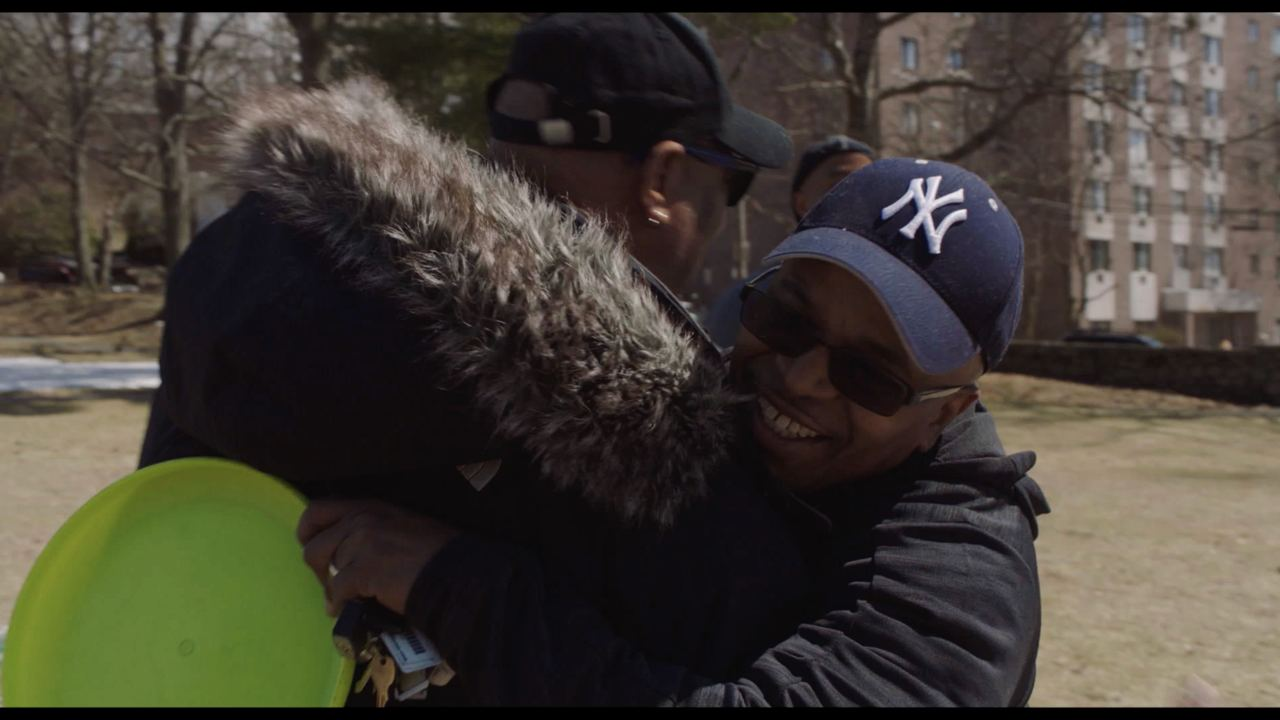
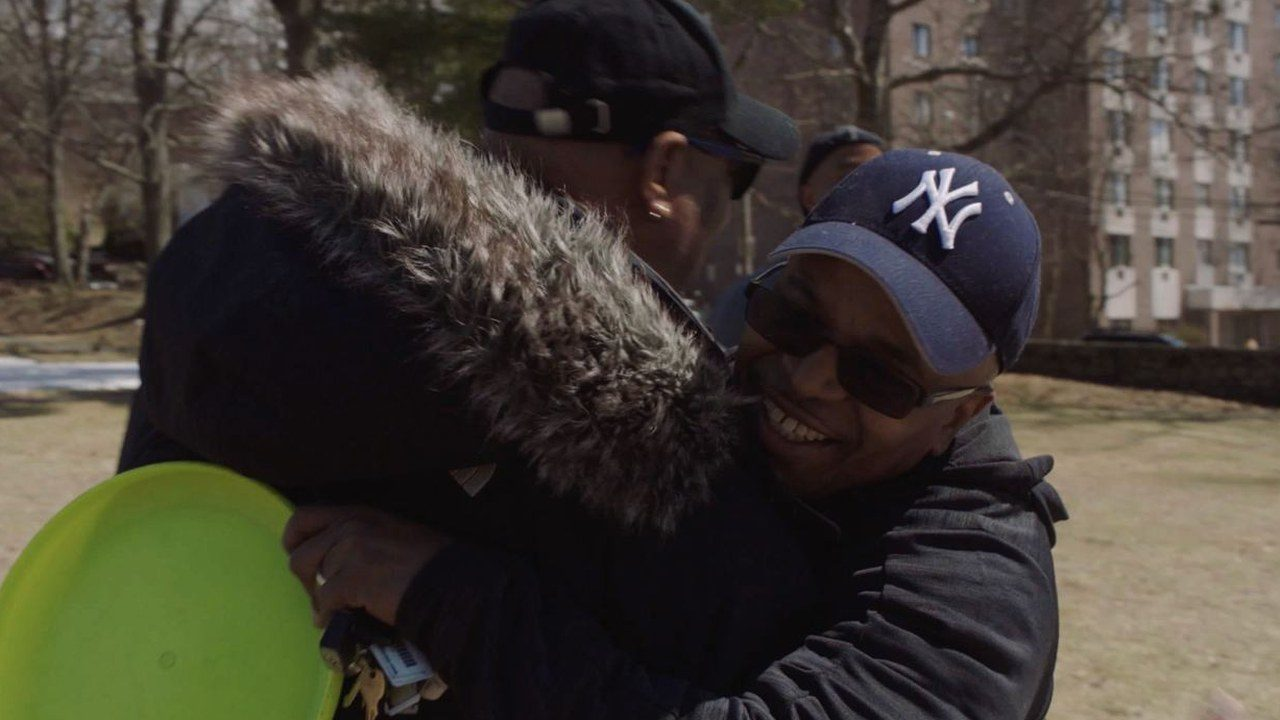
The Sky Is Red: crop the letterbox bars from the thumbnail, preview loop, and pop-up player
Claude-Session: https://claude.ai/code/session_01VntyYYHyPjDEkuFe24mHNy

diff --git a/film.html b/film.html
@@ -674,7 +674,7 @@ const FILMS=[
   {y:2022,t:"We Don't Just Matter In Death",img:"wdjmid",f:"Documentary",trt:"9:22",r:"Producer, Writer, Director, Editor"},
   {y:2020,t:"One Second a Day",og:1,f:"Experimental",g:"Experimental documentary series",img:"https://i.ytimg.com/vi/WSPStqxztRU/maxresdefault.jpg",u:"https://youtu.be/WSPStqxztRU",yt:[["2025","WSPStqxztRU"],["2024","-ZvWVRpXbJY"]]},
   {y:2020,t:"BIPOC Excellence in Ultimate",img:"bipoc",f:"Highlight Reel",trt:"4:25",r:"Producer, Editor",u:"https://vimeo.com/445467655",v:"445467655",vt:150},
-  {y:"—",t:"The Sky Is Red",img:"skyisred",f:"Documentary",hold:1,r:"Producer, Writer, Director",u:"https://vimeo.com/305896047",v:"305896047",vt:10},
+  {y:"—",t:"The Sky Is Red",img:"skyisred",f:"Documentary",hold:1,r:"Producer, Writer, Director",u:"https://vimeo.com/305896047",v:"305896047",vt:10,cr:.02},
   {y:2017,t:"Sadness and Other Self Portraits",img:"sadness",og:1,r:"Producer, Director, Editor",f:"Experimental",g:"Experimental documentary"},
   {y:2016,t:"Experiment",img:"experiment",f:"Experimental",trt:"3:30",r:"Producer, Writer, Director, Editor",u:"https://vimeo.com/246539799",v:"246539799",vt:15,l:[
     "Finalist, Sight of Sound International Film Competition (2016)",
@@ -715,7 +715,7 @@ function show(li){
   else{pimg.hidden=true;pvm.insertAdjacentHTML("beforeend",'<span class="none">'+esc(f.f)+'</span>');}
   Object.keys(frames).forEach(k=>{if(k!==f.v){frames[k].classList.remove("show");send(frames[k],"pause")}});
   if(moving&&f.v){let fr=frames[f.v];
-    if(!fr){fr=document.createElement("iframe");fr.src="https://player.vimeo.com/video/"+f.v+"?background=1&dnt=1#t="+(f.vt||0)+"s";fr.title="";fr.tabIndex=-1;fr.allow="autoplay";
+    if(!fr){fr=document.createElement("iframe");fr.src="https://player.vimeo.com/video/"+f.v+"?background=1&dnt=1#t="+(f.vt||0)+"s";fr.title="";fr.tabIndex=-1;fr.allow="autoplay";if(f.cr)fr.style.transform="translate(-50%,-50%) scale("+(1/(1-2*f.cr)).toFixed(3)+")";
       fr.addEventListener("load",()=>setTimeout(()=>{fr.dataset.ok=1;if(cur&&FILMS[+cur.dataset.i].v===f.v)fr.classList.add("show")},1600));pvm.appendChild(fr);frames[f.v]=fr;}
     else{send(fr,"play");if(fr.dataset.ok)fr.classList.add("show")}}
   pvm.classList.toggle("pop",!!(f.v||f.yt));
@@ -751,10 +751,10 @@ const ix=list.parentNode;let px=-1,py=-1;addEventListener("mousemove",e=>{px=e.c
 function atPointer(){if(py<0)return;const q=pv.getBoundingClientRect();if(px>=q.left&&px<=q.right&&py>=q.top&&py<=q.bottom)return;const b=ix.getBoundingClientRect();if(px<b.left||px>b.right||py<b.top||py>b.bottom)return;for(const li of list.children){const r=li.getBoundingClientRect();if(py>=r.top&&py<r.bottom){show(li);return}}}
 let sq=false;addEventListener("scroll",()=>{if(!sq){sq=true;requestAnimationFrame(()=>{sq=false;atPointer()})}},{passive:true});
 const ytPlay=id=>{if(window.lgPop)lgPop("https://www.youtube-nocookie.com/embed/"+id+"?autoplay=1&rel=0","One Second a Day");else open("https://youtu.be/"+id,"_blank")};
-pvm.addEventListener("click",()=>{if(!cur)return;const f=FILMS[+cur.dataset.i];if(f.yt)ytPlay(f.yt[0][1]);else if(f.v&&window.lgVimeo)lgVimeo(f.v)});
+pvm.addEventListener("click",()=>{if(!cur)return;const f=FILMS[+cur.dataset.i];if(f.yt)ytPlay(f.yt[0][1]);else if(f.v&&window.lgVimeo)lgVimeo(f.v,0,f.cr)});
 pcap.addEventListener("click",e=>{const b=e.target.closest("[data-yt]");if(b)ytPlay(b.dataset.yt)});
 // clicking a film's title (or its Watch tag) opens the video full screen here; cmd/ctrl-click still opens Vimeo
-list.addEventListener("click",e=>{const yb=e.target.closest("[data-yt]");if(yb){ytPlay(yb.dataset.yt);return}const li=e.target.closest(".ixr");if(!li)return;const f=FILMS[+li.dataset.i];if(f.yt&&!e.metaKey&&!e.ctrlKey){e.preventDefault();ytPlay(f.yt[0][1]);return}if(f.v&&window.lgVimeo&&!e.metaKey&&!e.ctrlKey){e.preventDefault();lgVimeo(f.v)}});
+list.addEventListener("click",e=>{const yb=e.target.closest("[data-yt]");if(yb){ytPlay(yb.dataset.yt);return}const li=e.target.closest(".ixr");if(!li)return;const f=FILMS[+li.dataset.i];if(f.yt&&!e.metaKey&&!e.ctrlKey){e.preventDefault();ytPlay(f.yt[0][1]);return}if(f.v&&window.lgVimeo&&!e.metaKey&&!e.ctrlKey){e.preventDefault();lgVimeo(f.v,0,f.cr)}});
 addEventListener("resize",place);
 document.querySelectorAll(".chip").forEach(b=>b.addEventListener("click",()=>{
   document.querySelectorAll(".chip").forEach(c=>c.setAttribute("aria-pressed",String(c===b)));
@@ -898,8 +898,11 @@ m.addEventListener('click',go);m.addEventListener('keydown',function(e){if(e.key
 <dialog class="reel-pop" id="reel-pop" aria-label="Video"><div class="rp-in"><button class="rp-x" type="button" aria-label="Close video">×</button><div class="rp-frame"></div></div></dialog>
 <script>
 (function(){var d=document.getElementById('reel-pop');if(!d||!d.showModal)return;var fr=d.querySelector('.rp-frame');
-function pop(src,title){fr.innerHTML='';var f=document.createElement('iframe');f.src=src;f.title=title||'Video';f.allow='autoplay; fullscreen; picture-in-picture';f.allowFullscreen=true;fr.appendChild(f);d.showModal();}
-window.lgPop=pop;window.lgVimeo=function(id,t){pop('https://player.vimeo.com/video/'+id+'?autoplay=1&title=0&byline=0&portrait=0&dnt=1'+(t?'#t='+t+'s':''));};
+// cr = share of the frame taken by each letterbox bar: the frame gets shorter and the player is cropped top and bottom so the bars don't show
+function pop(src,title,cr){fr.innerHTML='';var f=document.createElement('iframe');f.src=src;f.title=title||'Video';f.allow='autoplay; fullscreen; picture-in-picture';f.allowFullscreen=true;
+fr.style.aspectRatio=cr?16/(9*(1-2*cr)):'';fr.style.overflow=cr?'hidden':'';if(cr){f.style.position='relative';f.style.height=(100/(1-2*cr))+'%';f.style.top=(-100*cr/(1-2*cr))+'%';}
+fr.appendChild(f);d.showModal();}
+window.lgPop=pop;window.lgVimeo=function(id,t,cr){pop('https://player.vimeo.com/video/'+id+'?autoplay=1&title=0&byline=0&portrait=0&dnt=1'+(t?'#t='+t+'s':''),0,cr);};
 function open(e){e.preventDefault();lgVimeo(this.getAttribute('data-reel')||'158287395');}
 function close(){d.close();}
 d.addEventListener('close',function(){if(!d.open)fr.innerHTML='';});

diff --git a/src/site.html b/src/site.html
@@ -1160,7 +1160,7 @@ const FILMS=[
   {y:2022,t:"We Don't Just Matter In Death",img:"wdjmid",f:"Documentary",trt:"9:22",r:"Producer, Writer, Director, Editor"},
   {y:2020,t:"One Second a Day",og:1,f:"Experimental",g:"Experimental documentary series",img:"https://i.ytimg.com/vi/WSPStqxztRU/maxresdefault.jpg",u:"https://youtu.be/WSPStqxztRU",yt:[["2025","WSPStqxztRU"],["2024","-ZvWVRpXbJY"]]},
   {y:2020,t:"BIPOC Excellence in Ultimate",img:"bipoc",f:"Highlight Reel",trt:"4:25",r:"Producer, Editor",u:"https://vimeo.com/445467655",v:"445467655",vt:150},
-  {y:"—",t:"The Sky Is Red",img:"skyisred",f:"Documentary",hold:1,r:"Producer, Writer, Director",u:"https://vimeo.com/305896047",v:"305896047",vt:10},
+  {y:"—",t:"The Sky Is Red",img:"skyisred",f:"Documentary",hold:1,r:"Producer, Writer, Director",u:"https://vimeo.com/305896047",v:"305896047",vt:10,cr:.02},
   {y:2017,t:"Sadness and Other Self Portraits",img:"sadness",og:1,r:"Producer, Director, Editor",f:"Experimental",g:"Experimental documentary"},
   {y:2016,t:"Experiment",img:"experiment",f:"Experimental",trt:"3:30",r:"Producer, Writer, Director, Editor",u:"https://vimeo.com/246539799",v:"246539799",vt:15,l:[
     "Finalist, Sight of Sound International Film Competition (2016)",
@@ -1201,7 +1201,7 @@ function show(li){
   else{pimg.hidden=true;pvm.insertAdjacentHTML("beforeend",'<span class="none">'+esc(f.f)+'</span>');}
   Object.keys(frames).forEach(k=>{if(k!==f.v){frames[k].classList.remove("show");send(frames[k],"pause")}});
   if(moving&&f.v){let fr=frames[f.v];
-    if(!fr){fr=document.createElement("iframe");fr.src="https://player.vimeo.com/video/"+f.v+"?background=1&dnt=1#t="+(f.vt||0)+"s";fr.title="";fr.tabIndex=-1;fr.allow="autoplay";
+    if(!fr){fr=document.createElement("iframe");fr.src="https://player.vimeo.com/video/"+f.v+"?background=1&dnt=1#t="+(f.vt||0)+"s";fr.title="";fr.tabIndex=-1;fr.allow="autoplay";if(f.cr)fr.style.transform="translate(-50%,-50%) scale("+(1/(1-2*f.cr)).toFixed(3)+")";
       fr.addEventListener("load",()=>setTimeout(()=>{fr.dataset.ok=1;if(cur&&FILMS[+cur.dataset.i].v===f.v)fr.classList.add("show")},1600));pvm.appendChild(fr);frames[f.v]=fr;}
     else{send(fr,"play");if(fr.dataset.ok)fr.classList.add("show")}}
   pvm.classList.toggle("pop",!!(f.v||f.yt));
@@ -1237,10 +1237,10 @@ const ix=list.parentNode;let px=-1,py=-1;addEventListener("mousemove",e=>{px=e.c
 function atPointer(){if(py<0)return;const q=pv.getBoundingClientRect();if(px>=q.left&&px<=q.right&&py>=q.top&&py<=q.bottom)return;const b=ix.getBoundingClientRect();if(px<b.left||px>b.right||py<b.top||py>b.bottom)return;for(const li of list.children){const r=li.getBoundingClientRect();if(py>=r.top&&py<r.bottom){show(li);return}}}
 let sq=false;addEventListener("scroll",()=>{if(!sq){sq=true;requestAnimationFrame(()=>{sq=false;atPointer()})}},{passive:true});
 const ytPlay=id=>{if(window.lgPop)lgPop("https://www.youtube-nocookie.com/embed/"+id+"?autoplay=1&rel=0","One Second a Day");else open("https://youtu.be/"+id,"_blank")};
-pvm.addEventListener("click",()=>{if(!cur)return;const f=FILMS[+cur.dataset.i];if(f.yt)ytPlay(f.yt[0][1]);else if(f.v&&window.lgVimeo)lgVimeo(f.v)});
+pvm.addEventListener("click",()=>{if(!cur)return;const f=FILMS[+cur.dataset.i];if(f.yt)ytPlay(f.yt[0][1]);else if(f.v&&window.lgVimeo)lgVimeo(f.v,0,f.cr)});
 pcap.addEventListener("click",e=>{const b=e.target.closest("[data-yt]");if(b)ytPlay(b.dataset.yt)});
 // clicking a film's title (or its Watch tag) opens the video full screen here; cmd/ctrl-click still opens Vimeo
-list.addEventListener("click",e=>{const yb=e.target.closest("[data-yt]");if(yb){ytPlay(yb.dataset.yt);return}const li=e.target.closest(".ixr");if(!li)return;const f=FILMS[+li.dataset.i];if(f.yt&&!e.metaKey&&!e.ctrlKey){e.preventDefault();ytPlay(f.yt[0][1]);return}if(f.v&&window.lgVimeo&&!e.metaKey&&!e.ctrlKey){e.preventDefault();lgVimeo(f.v)}});
+list.addEventListener("click",e=>{const yb=e.target.closest("[data-yt]");if(yb){ytPlay(yb.dataset.yt);return}const li=e.target.closest(".ixr");if(!li)return;const f=FILMS[+li.dataset.i];if(f.yt&&!e.metaKey&&!e.ctrlKey){e.preventDefault();ytPlay(f.yt[0][1]);return}if(f.v&&window.lgVimeo&&!e.metaKey&&!e.ctrlKey){e.preventDefault();lgVimeo(f.v,0,f.cr)}});
 addEventListener("resize",place);
 document.querySelectorAll(".chip").forEach(b=>b.addEventListener("click",()=>{
   document.querySelectorAll(".chip").forEach(c=>c.setAttribute("aria-pressed",String(c===b)));

diff --git a/commercial.html b/commercial.html
@@ -1186,8 +1186,11 @@ m.addEventListener('click',go);m.addEventListener('keydown',function(e){if(e.key
 <dialog class="reel-pop" id="reel-pop" aria-label="Video"><div class="rp-in"><button class="rp-x" type="button" aria-label="Close video">×</button><div class="rp-frame"></div></div></dialog>
 <script>
 (function(){var d=document.getElementById('reel-pop');if(!d||!d.showModal)return;var fr=d.querySelector('.rp-frame');
-function pop(src,title){fr.innerHTML='';var f=document.createElement('iframe');f.src=src;f.title=title||'Video';f.allow='autoplay; fullscreen; picture-in-picture';f.allowFullscreen=true;fr.appendChild(f);d.showModal();}
-window.lgPop=pop;window.lgVimeo=function(id,t){pop('https://player.vimeo.com/video/'+id+'?autoplay=1&title=0&byline=0&portrait=0&dnt=1'+(t?'#t='+t+'s':''));};
+// cr = share of the frame taken by each letterbox bar: the frame gets shorter and the player is cropped top and bottom so the bars don't show
+function pop(src,title,cr){fr.innerHTML='';var f=document.createElement('iframe');f.src=src;f.title=title||'Video';f.allow='autoplay; fullscreen; picture-in-picture';f.allowFullscreen=true;
+fr.style.aspectRatio=cr?16/(9*(1-2*cr)):'';fr.style.overflow=cr?'hidden':'';if(cr){f.style.position='relative';f.style.height=(100/(1-2*cr))+'%';f.style.top=(-100*cr/(1-2*cr))+'%';}
+fr.appendChild(f);d.showModal();}
+window.lgPop=pop;window.lgVimeo=function(id,t,cr){pop('https://player.vimeo.com/video/'+id+'?autoplay=1&title=0&byline=0&portrait=0&dnt=1'+(t?'#t='+t+'s':''),0,cr);};
 function open(e){e.preventDefault();lgVimeo(this.getAttribute('data-reel')||'158287395');}
 function close(){d.close();}
 d.addEventListener('close',function(){if(!d.open)fr.innerHTML='';});

diff --git a/about.html b/about.html
@@ -814,8 +814,11 @@ m.addEventListener('click',go);m.addEventListener('keydown',function(e){if(e.key
 <dialog class="reel-pop" id="reel-pop" aria-label="Video"><div class="rp-in"><button class="rp-x" type="button" aria-label="Close video">×</button><div class="rp-frame"></div></div></dialog>
 <script>
 (function(){var d=document.getElementById('reel-pop');if(!d||!d.showModal)return;var fr=d.querySelector('.rp-frame');
-function pop(src,title){fr.innerHTML='';var f=document.createElement('iframe');f.src=src;f.title=title||'Video';f.allow='autoplay; fullscreen; picture-in-picture';f.allowFullscreen=true;fr.appendChild(f);d.showModal();}
-window.lgPop=pop;window.lgVimeo=function(id,t){pop('https://player.vimeo.com/video/'+id+'?autoplay=1&title=0&byline=0&portrait=0&dnt=1'+(t?'#t='+t+'s':''));};
+// cr = share of the frame taken by each letterbox bar: the frame gets shorter and the player is cropped top and bottom so the bars don't show
+function pop(src,title,cr){fr.innerHTML='';var f=document.createElement('iframe');f.src=src;f.title=title||'Video';f.allow='autoplay; fullscreen; picture-in-picture';f.allowFullscreen=true;
+fr.style.aspectRatio=cr?16/(9*(1-2*cr)):'';fr.style.overflow=cr?'hidden':'';if(cr){f.style.position='relative';f.style.height=(100/(1-2*cr))+'%';f.style.top=(-100*cr/(1-2*cr))+'%';}
+fr.appendChild(f);d.showModal();}
+window.lgPop=pop;window.lgVimeo=function(id,t,cr){pop('https://player.vimeo.com/video/'+id+'?autoplay=1&title=0&byline=0&portrait=0&dnt=1'+(t?'#t='+t+'s':''),0,cr);};
 function open(e){e.preventDefault();lgVimeo(this.getAttribute('data-reel')||'158287395');}
 function close(){d.close();}
 d.addEventListener('close',function(){if(!d.open)fr.innerHTML='';});

diff --git a/contact.html b/contact.html
@@ -797,8 +797,11 @@ m.addEventListener('click',go);m.addEventListener('keydown',function(e){if(e.key
 <dialog class="reel-pop" id="reel-pop" aria-label="Video"><div class="rp-in"><button class="rp-x" type="button" aria-label="Close video">×</button><div class="rp-frame"></div></div></dialog>
 <script>
 (function(){var d=document.getElementById('reel-pop');if(!d||!d.showModal)return;var fr=d.querySelector('.rp-frame');
-function pop(src,title){fr.innerHTML='';var f=document.createElement('iframe');f.src=src;f.title=title||'Video';f.allow='autoplay; fullscreen; picture-in-picture';f.allowFullscreen=true;fr.appendChild(f);d.showModal();}
-window.lgPop=pop;window.lgVimeo=function(id,t){pop('https://player.vimeo.com/video/'+id+'?autoplay=1&title=0&byline=0&portrait=0&dnt=1'+(t?'#t='+t+'s':''));};
+// cr = share of the frame taken by each letterbox bar: the frame gets shorter and the player is cropped top and bottom so the bars don't show
+function pop(src,title,cr){fr.innerHTML='';var f=document.createElement('iframe');f.src=src;f.title=title||'Video';f.allow='autoplay; fullscreen; picture-in-picture';f.allowFullscreen=true;
+fr.style.aspectRatio=cr?16/(9*(1-2*cr)):'';fr.style.overflow=cr?'hidden':'';if(cr){f.style.position='relative';f.style.height=(100/(1-2*cr))+'%';f.style.top=(-100*cr/(1-2*cr))+'%';}
+fr.appendChild(f);d.showModal();}
+window.lgPop=pop;window.lgVimeo=function(id,t,cr){pop('https://player.vimeo.com/video/'+id+'?autoplay=1&title=0&byline=0&portrait=0&dnt=1'+(t?'#t='+t+'s':''),0,cr);};
 function open(e){e.preventDefault();lgVimeo(this.getAttribute('data-reel')||'158287395');}
 function close(){d.close();}
 d.addEventListener('close',function(){if(!d.open)fr.innerHTML='';});

diff --git a/index.html b/index.html
@@ -825,8 +825,11 @@ m.addEventListener('click',go);m.addEventListener('keydown',function(e){if(e.key
 <dialog class="reel-pop" id="reel-pop" aria-label="Video"><div class="rp-in"><button class="rp-x" type="button" aria-label="Close video">×</button><div class="rp-frame"></div></div></dialog>
 <script>
 (function(){var d=document.getElementById('reel-pop');if(!d||!d.showModal)return;var fr=d.querySelector('.rp-frame');
-function pop(src,title){fr.innerHTML='';var f=document.createElement('iframe');f.src=src;f.title=title||'Video';f.allow='autoplay; fullscreen; picture-in-picture';f.allowFullscreen=true;fr.appendChild(f);d.showModal();}
-window.lgPop=pop;window.lgVimeo=function(id,t){pop('https://player.vimeo.com/video/'+id+'?autoplay=1&title=0&byline=0&portrait=0&dnt=1'+(t?'#t='+t+'s':''));};
+// cr = share of the frame taken by each letterbox bar: the frame gets shorter and the player is cropped top and bottom so the bars don't show
+function pop(src,title,cr){fr.innerHTML='';var f=document.createElement('iframe');f.src=src;f.title=title||'Video';f.allow='autoplay; fullscreen; picture-in-picture';f.allowFullscreen=true;
+fr.style.aspectRatio=cr?16/(9*(1-2*cr)):'';fr.style.overflow=cr?'hidden':'';if(cr){f.style.position='relative';f.style.height=(100/(1-2*cr))+'%';f.style.top=(-100*cr/(1-2*cr))+'%';}
+fr.appendChild(f);d.showModal();}
+window.lgPop=pop;window.lgVimeo=function(id,t,cr){pop('https://player.vimeo.com/video/'+id+'?autoplay=1&title=0&byline=0&portrait=0&dnt=1'+(t?'#t='+t+'s':''),0,cr);};
 function open(e){e.preventDefault();lgVimeo(this.getAttribute('data-reel')||'158287395');}
 function close(){d.close();}
 d.addEventListener('close',function(){if(!d.open)fr.innerHTML='';});

diff --git a/other-work.html b/other-work.html
@@ -809,8 +809,11 @@ m.addEventListener('click',go);m.addEventListener('keydown',function(e){if(e.key
 <dialog class="reel-pop" id="reel-pop" aria-label="Video"><div class="rp-in"><button class="rp-x" type="button" aria-label="Close video">×</button><div class="rp-frame"></div></div></dialog>
 <script>
 (function(){var d=document.getElementById('reel-pop');if(!d||!d.showModal)return;var fr=d.querySelector('.rp-frame');
-function pop(src,title){fr.innerHTML='';var f=document.createElement('iframe');f.src=src;f.title=title||'Video';f.allow='autoplay; fullscreen; picture-in-picture';f.allowFullscreen=true;fr.appendChild(f);d.showModal();}
-window.lgPop=pop;window.lgVimeo=function(id,t){pop('https://player.vimeo.com/video/'+id+'?autoplay=1&title=0&byline=0&portrait=0&dnt=1'+(t?'#t='+t+'s':''));};
+// cr = share of the frame taken by each letterbox bar: the frame gets shorter and the player is cropped top and bottom so the bars don't show
+function pop(src,title,cr){fr.innerHTML='';var f=document.createElement('iframe');f.src=src;f.title=title||'Video';f.allow='autoplay; fullscreen; picture-in-picture';f.allowFullscreen=true;
+fr.style.aspectRatio=cr?16/(9*(1-2*cr)):'';fr.style.overflow=cr?'hidden':'';if(cr){f.style.position='relative';f.style.height=(100/(1-2*cr))+'%';f.style.top=(-100*cr/(1-2*cr))+'%';}
+fr.appendChild(f);d.showModal();}
+window.lgPop=pop;window.lgVimeo=function(id,t,cr){pop('https://player.vimeo.com/video/'+id+'?autoplay=1&title=0&byline=0&portrait=0&dnt=1'+(t?'#t='+t+'s':''),0,cr);};
 function open(e){e.preventDefault();lgVimeo(this.getAttribute('data-reel')||'158287395');}
 function close(){d.close();}
 d.addEventListener('close',function(){if(!d.open)fr.innerHTML='';});

diff --git a/press.html b/press.html
@@ -795,8 +795,11 @@ m.addEventListener('click',go);m.addEventListener('keydown',function(e){if(e.key
 <dialog class="reel-pop" id="reel-pop" aria-label="Video"><div class="rp-in"><button class="rp-x" type="button" aria-label="Close video">×</button><div class="rp-frame"></div></div></dialog>
 <script>
 (function(){var d=document.getElementById('reel-pop');if(!d||!d.showModal)return;var fr=d.querySelector('.rp-frame');
-function pop(src,title){fr.innerHTML='';var f=document.createElement('iframe');f.src=src;f.title=title||'Video';f.allow='autoplay; fullscreen; picture-in-picture';f.allowFullscreen=true;fr.appendChild(f);d.showModal();}
-window.lgPop=pop;window.lgVimeo=function(id,t){pop('https://player.vimeo.com/video/'+id+'?autoplay=1&title=0&byline=0&portrait=0&dnt=1'+(t?'#t='+t+'s':''));};
+// cr = share of the frame taken by each letterbox bar: the frame gets shorter and the player is cropped top and bottom so the bars don't show
+function pop(src,title,cr){fr.innerHTML='';var f=document.createElement('iframe');f.src=src;f.title=title||'Video';f.allow='autoplay; fullscreen; picture-in-picture';f.allowFullscreen=true;
+fr.style.aspectRatio=cr?16/(9*(1-2*cr)):'';fr.style.overflow=cr?'hidden':'';if(cr){f.style.position='relative';f.style.height=(100/(1-2*cr))+'%';f.style.top=(-100*cr/(1-2*cr))+'%';}
+fr.appendChild(f);d.showModal();}
+window.lgPop=pop;window.lgVimeo=function(id,t,cr){pop('https://player.vimeo.com/video/'+id+'?autoplay=1&title=0&byline=0&portrait=0&dnt=1'+(t?'#t='+t+'s':''),0,cr);};
 function open(e){e.preventDefault();lgVimeo(this.getAttribute('data-reel')||'158287395');}
 function close(){d.close();}
 d.addEventListener('close',function(){if(!d.open)fr.innerHTML='';});

diff --git a/build.py b/build.py
@@ -54,8 +54,11 @@ def page_head(title, path):
 REEL_POP = '''<dialog class="reel-pop" id="reel-pop" aria-label="Video"><div class="rp-in"><button class="rp-x" type="button" aria-label="Close video">×</button><div class="rp-frame"></div></div></dialog>
 <script>
 (function(){var d=document.getElementById('reel-pop');if(!d||!d.showModal)return;var fr=d.querySelector('.rp-frame');
-function pop(src,title){fr.innerHTML='';var f=document.createElement('iframe');f.src=src;f.title=title||'Video';f.allow='autoplay; fullscreen; picture-in-picture';f.allowFullscreen=true;fr.appendChild(f);d.showModal();}
-window.lgPop=pop;window.lgVimeo=function(id,t){pop('https://player.vimeo.com/video/'+id+'?autoplay=1&title=0&byline=0&portrait=0&dnt=1'+(t?'#t='+t+'s':''));};
+// cr = share of the frame taken by each letterbox bar: the frame gets shorter and the player is cropped top and bottom so the bars don't show
+function pop(src,title,cr){fr.innerHTML='';var f=document.createElement('iframe');f.src=src;f.title=title||'Video';f.allow='autoplay; fullscreen; picture-in-picture';f.allowFullscreen=true;
+fr.style.aspectRatio=cr?16/(9*(1-2*cr)):'';fr.style.overflow=cr?'hidden':'';if(cr){f.style.position='relative';f.style.height=(100/(1-2*cr))+'%';f.style.top=(-100*cr/(1-2*cr))+'%';}
+fr.appendChild(f);d.showModal();}
+window.lgPop=pop;window.lgVimeo=function(id,t,cr){pop('https://player.vimeo.com/video/'+id+'?autoplay=1&title=0&byline=0&portrait=0&dnt=1'+(t?'#t='+t+'s':''),0,cr);};
 function open(e){e.preventDefault();lgVimeo(this.getAttribute('data-reel')||'158287395');}
 function close(){d.close();}
 d.addEventListener('close',function(){if(!d.open)fr.innerHTML='';});
